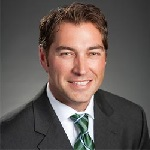
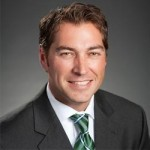
Added 3rd Speaker, Image Sharpened
- Added Ben Fleishman on Index and Speakers Page
- Image 150x for Chris Barry and Ray Improved to remove edges

diff --git a/RMMTC/index.html b/RMMTC/index.html
@@ -165,10 +165,10 @@
                 <section class="team-home">
                     <h1 class="section-title">Featured Speakers</h1>
                     <div class="row">
-                        <div class="col-sm-6">
+                        <div class="col-md-4">
                             <div class="team-home-item">
                                 <div class="team-home-img">
-                                    <img src="img/chrisbarry150.jpg" alt="">
+                                    <img src="img/Chrisbarry150.jpg" alt="">
                                 </div>
                                 <div class="team-home-content">
                                     <h3>Chris Barry</h3>
@@ -180,16 +180,32 @@
                                 </div>
                             </div>
                         </div>
-                        <div class="col-sm-6">
+                        <div class="col-md-4">
                             <div class="team-home-item">
                                 <div class="team-home-img">
-                                    <img src="img/Ray_Littlejohn150.jpg" alt="">
+                                    <img src="img/ray150.jpg" alt="">
                                 </div>
                                 <div class="team-home-content">
                                     <h3>Ray LittleJohn</h3>
                                     <p><center>Associate Professor of Engineering Practice</center></p>
 									<p><center>W.E. Deming Professor of Management</center></p>
 									<p><center>Topic: Six Sigma Workshop</center></p>
+                                    <p></p>
+                                </div>
+                                <div class="team-home-footer">
+                                    <a href="speakers.html">Read more</a>
+                                </div>
+                            </div>
+                        </div>
+						<div class="col-md-4">
+                            <div class="team-home-item">
+                                <div class="team-home-img">
+                                    <img src="img/benfleishman150.jpg" alt="">
+                                </div>
+                                <div class="team-home-content">
+                                    <h3>Ben Fleishman</h3>
+                                    <p><center>Student Programs Manager</center></p>
+									<p><center>Topic: Engineering World Health Organization </center></p>
                                     <p></p>
                                 </div>
                                 <div class="team-home-footer">

diff --git a/RMMTC/speakers.html b/RMMTC/speakers.html
@@ -99,6 +99,17 @@
 						   </div>
                         </div>
                     </article> <!-- post -->
+					    <article class="post">
+                        <h1>Ben Fleishman</h1>
+                        <div class="row">
+                            <div class="col-sm-4">
+                                <img src="img/ben333.jpg" class="img-responsive" alt="Image">
+                            </div>
+                            <div class="col-sm-8">
+								<p align="justify">Ben joined EWH in November 2011 after working in Tanzania as an on the ground coordinator for the Summer Institute. He is an alumni of the 2009 Tanzania Summer Institute and held leadership roles in Engineers With Out Borders at Clemson University, where he received his BS in BioEngineering in 2009. His senior design project was a low cost disposable scalpel for the developing world. He has worked with students in Vietnam, Mexico and Clemson teaching seminars, labs and leading research projects. In his spare time Ben enjoys spending time outdoors and technical projects such as building bikes and modifying cars. His unique combination of student leadership experience and technical skills makes him the ideal choice to manage and expand our Summer Institute programs. </p>
+						   </div>
+                        </div>
+                    </article> <!-- post -->
                 </section>
             </div> <!-- col-md-12 -->
         </div> <!-- row -->
